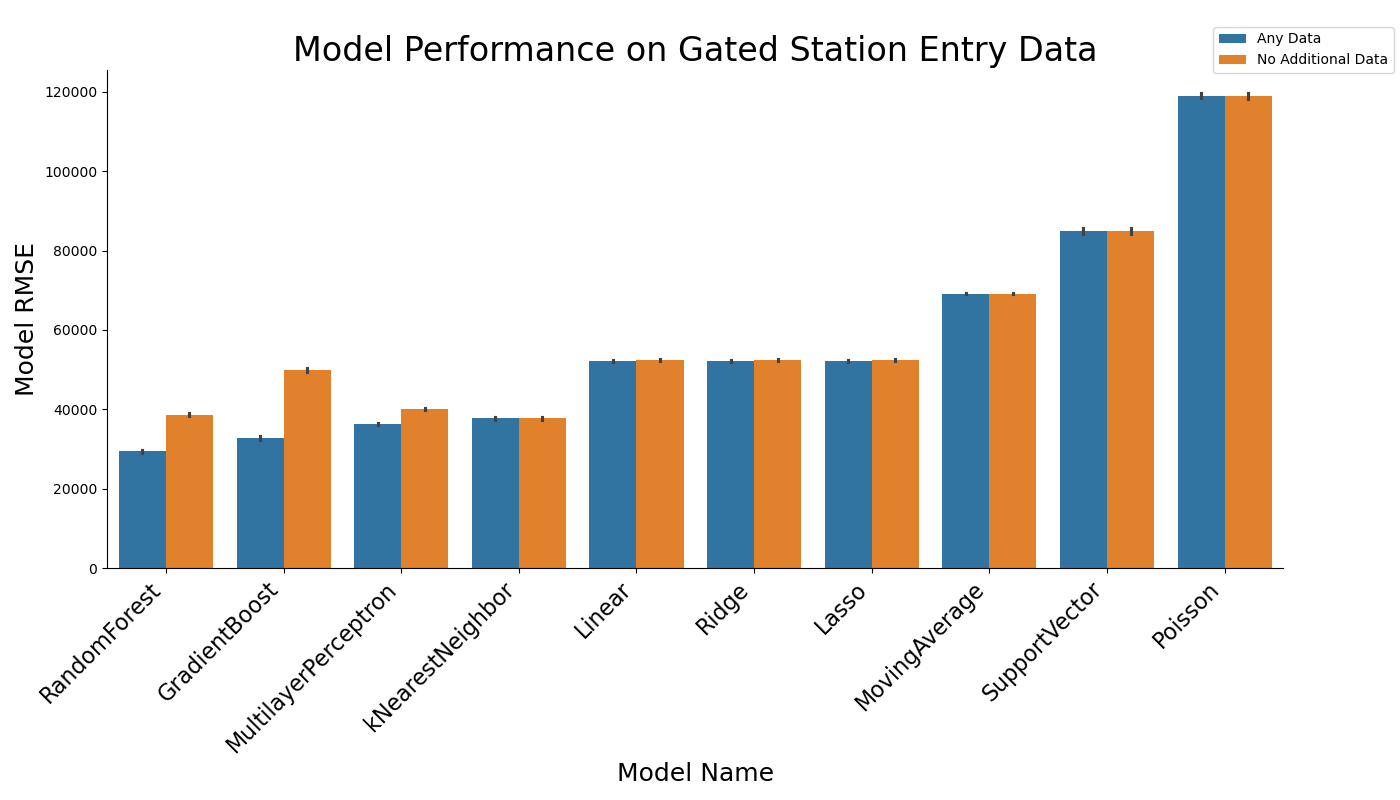
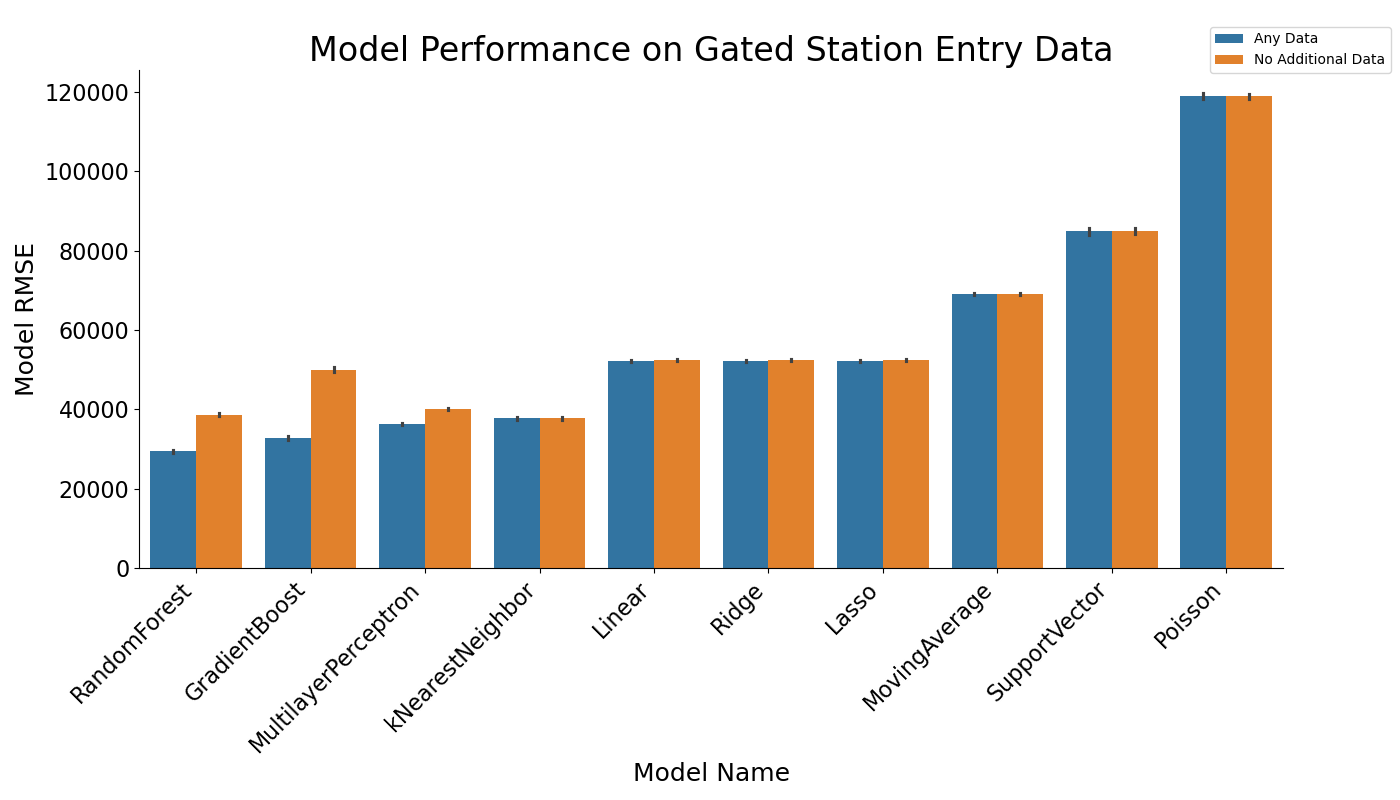
slight improvements to some graphs

diff --git a/scripts/analysis_scripts/bootstrap_display.py b/scripts/analysis_scripts/bootstrap_display.py
@@ -39,6 +39,7 @@ def display_ranking_data(data,title,xlabel,ylabel,name):
     plt.xlabel(xlabel, fontsize=18)
     plt.ylabel(ylabel, fontsize=18)
     plt.xticks(rotation=45, ha='right', fontsize=16)
+    plt.yticks(fontsize=16)
     plt.legend(loc='upper right', bbox_to_anchor=(1.1, 1.1))
     plt.tight_layout()
     plt.savefig(f"../../output/results/{name}_bootstrapped.png")
@@ -66,6 +67,7 @@ def display_improvement_data(data,name,title):
     plt.xlabel(f"Additional Data", fontsize=18)
     plt.ylabel(f"Percentage Decrease in RMSE", fontsize=18)
     plt.xticks(rotation=45, ha='right', fontsize=16)
+    plt.yticks(fontsize=16)
     plt.tight_layout()
     plt.savefig(f"../../output/results/{name}_improvement.png")
 
@@ -98,9 +100,9 @@ def main():
     gse_data_improvement = gse_data[((gse_data['Data'] != 'Any Data') & (gse_data['Data'] != 'No Additional Data'))]
     delay_data_improvement = delay_data[((delay_data['Data'] != 'Any Data') & (delay_data['Data'] != 'No Additional Data'))]
     print("GSE data:")
-    display_improvement_data(gse_data_improvement,"gse_data","GSE Model Improvement Given Additional Data")
+    display_improvement_data(gse_data_improvement,"gse_data","GSE Model")
     print("Delay data:")
-    display_improvement_data(delay_data_improvement,"delay_data","Delay Model Improvement Given Additional Data")
+    display_improvement_data(delay_data_improvement,"delay_data","Delay Model")
 
 if __name__ == "__main__":
     main()
